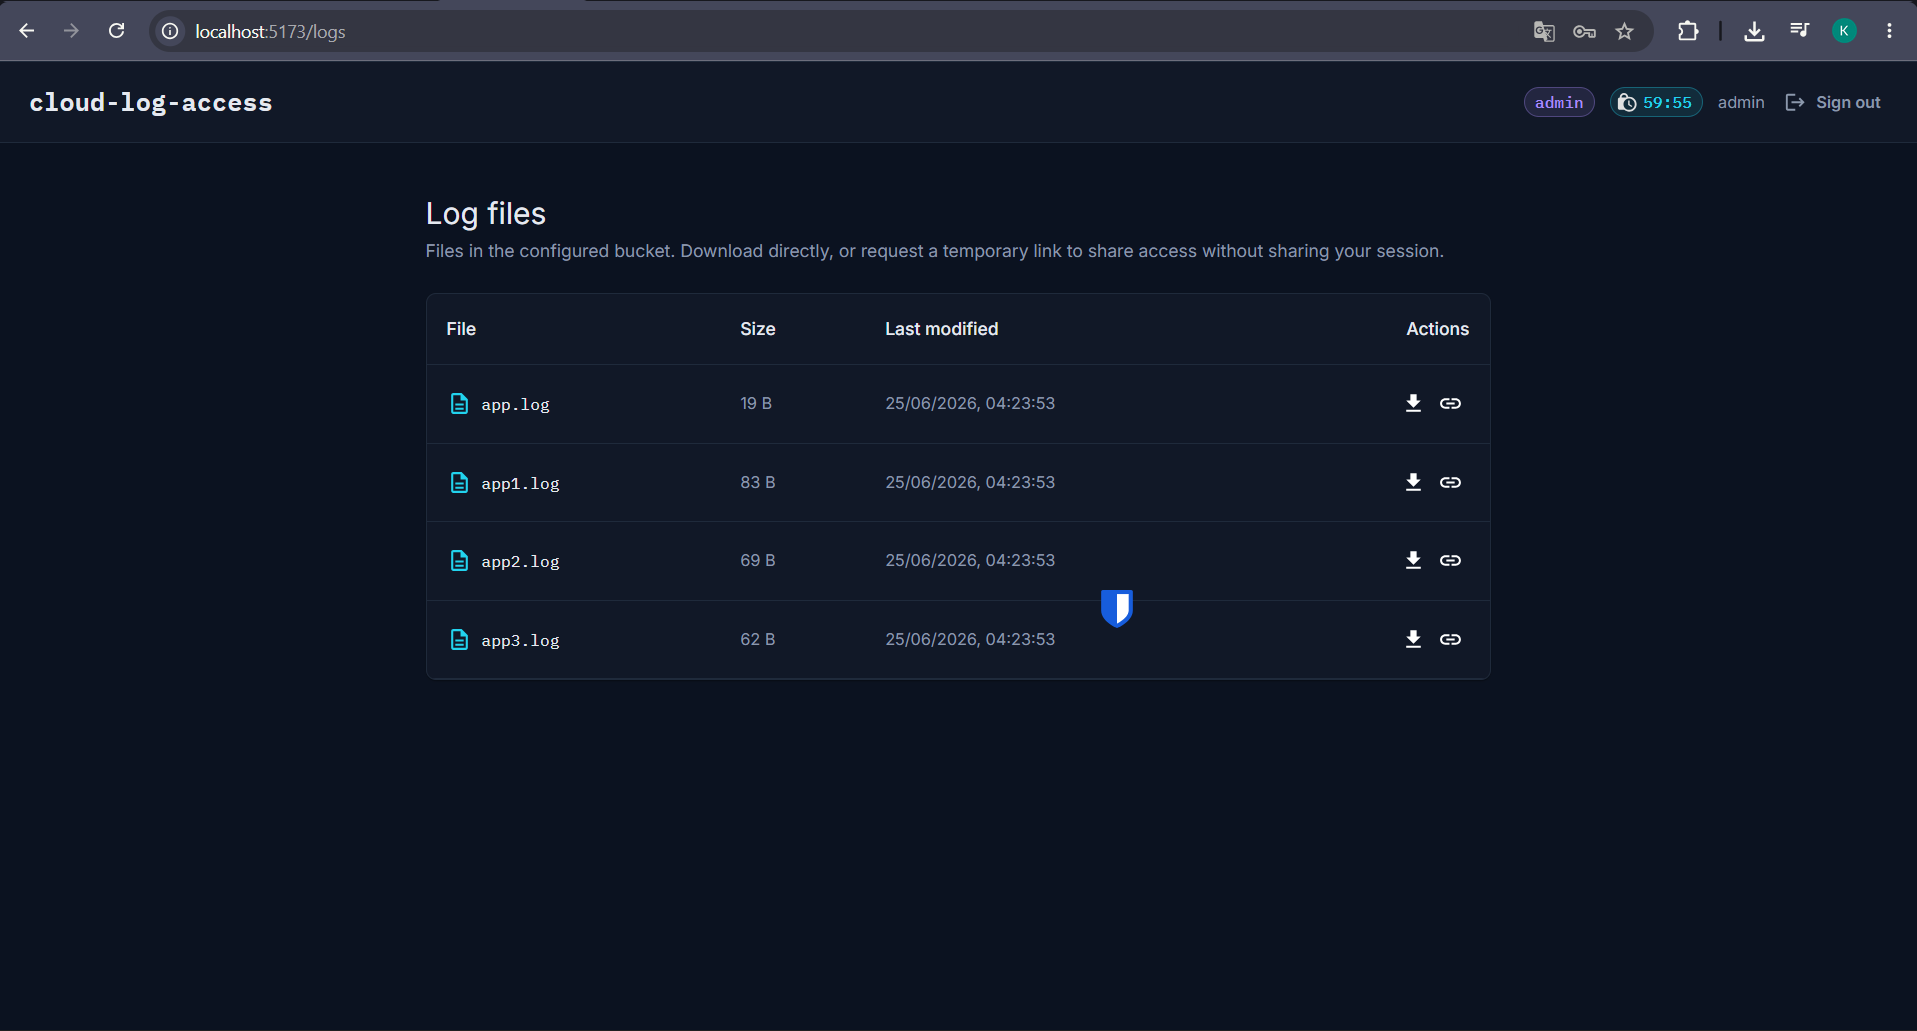
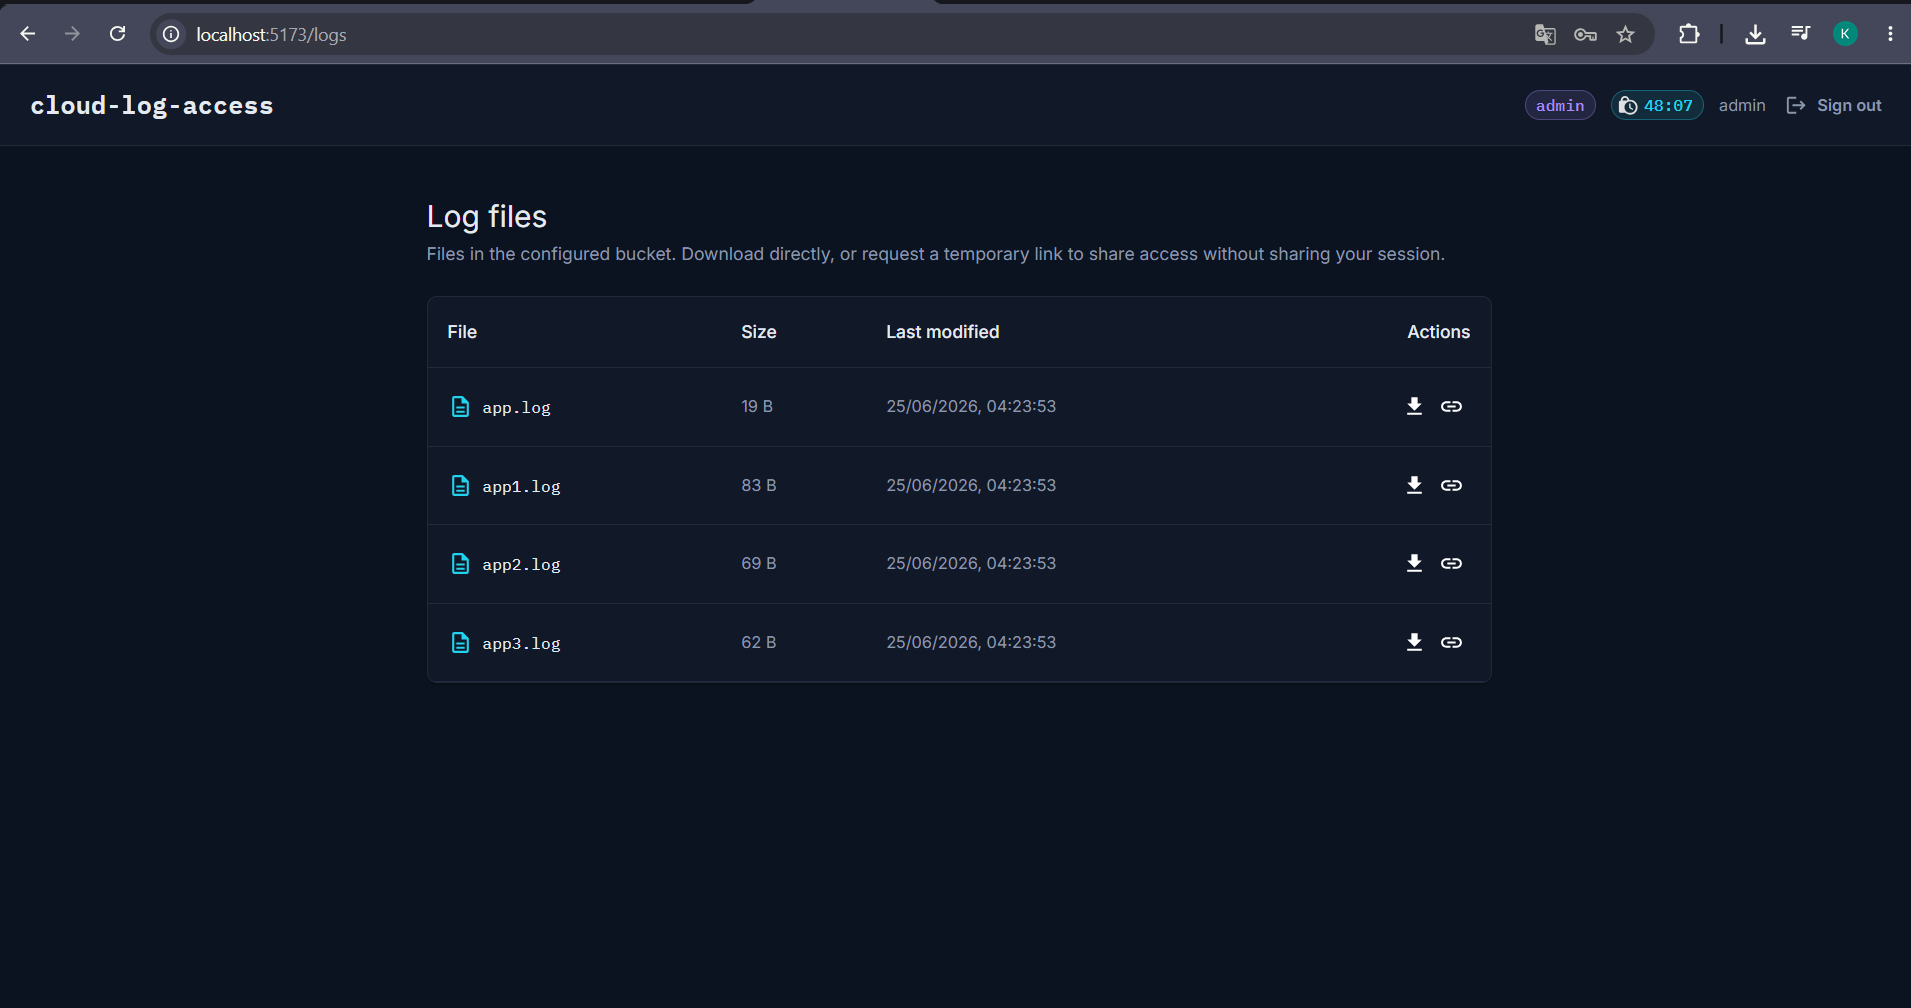
more images

diff --git a/README.md b/README.md
@@ -269,12 +269,8 @@ Logs Page
 Temporary Link Generation
 ![alt text](presign_modal.png)
 
-```text
-docs/screenshots/login.png
-docs/screenshots/logs.png
-docs/screenshots/presign_modal.png
-```
-
+Download with presign link
+![alt text](download.png)
 ---
 
 ## Security Decisions